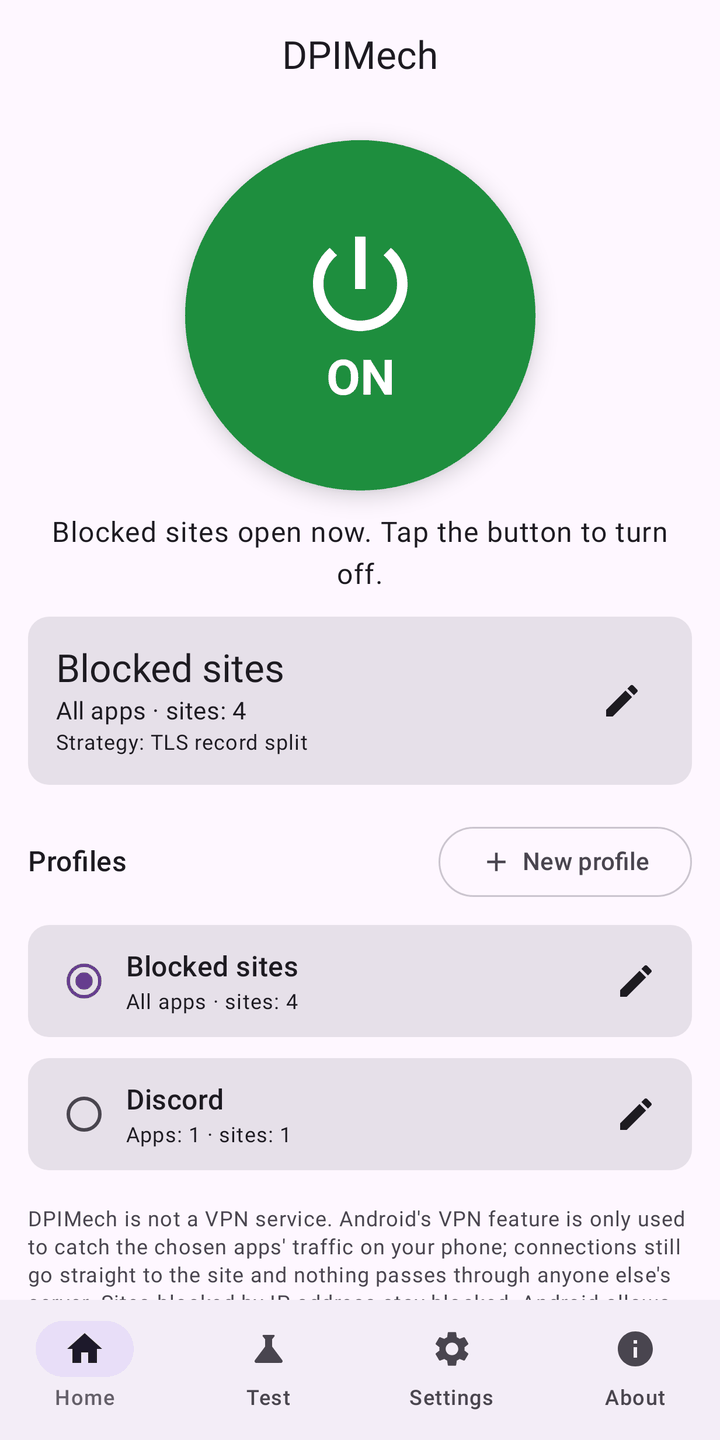
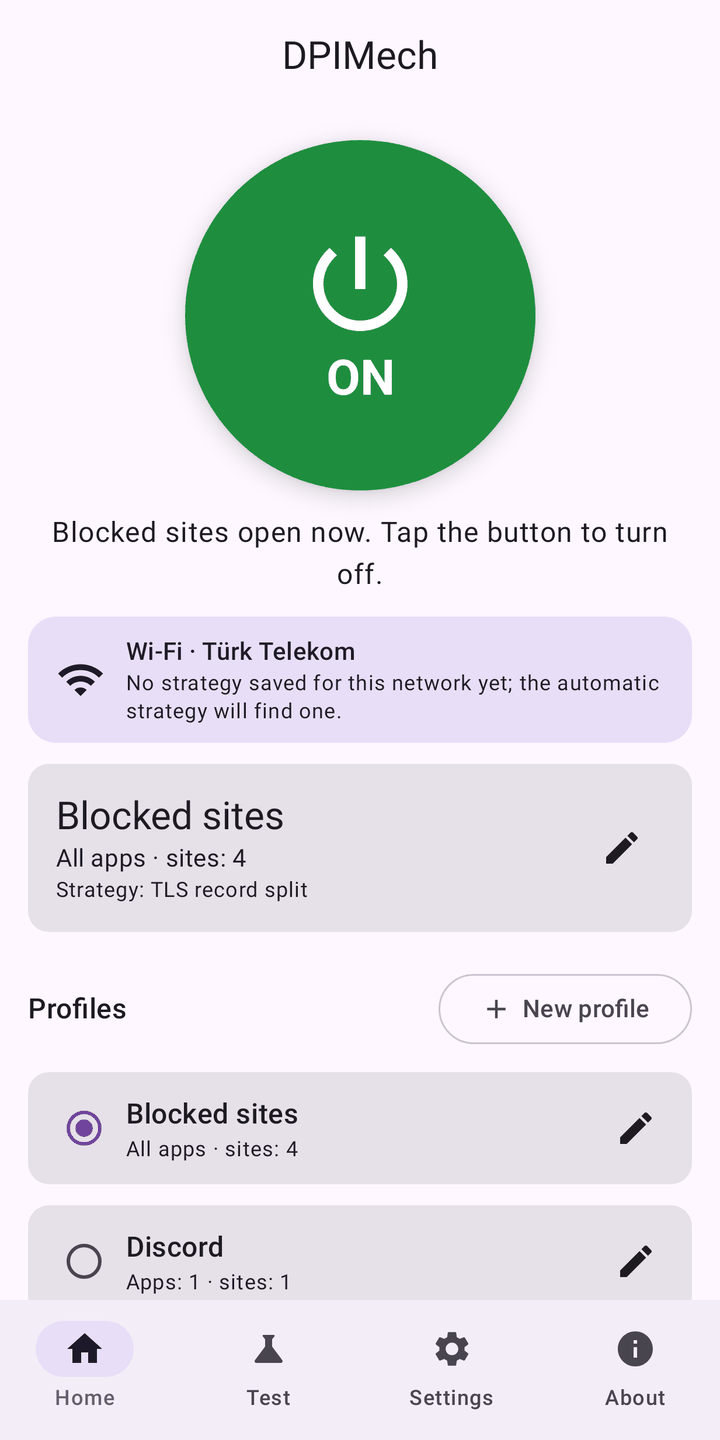
app: network line on home, list update progress, battery fix, country text
- Home shows the network under the power button (Wi-Fi / mobile data and
  provider) and the strategy remembered for it.
- Update strategy lists: a spinner while downloading and the last update
  time, in the app language.
- Battery optimisation did nothing: the REQUEST_IGNORE_BATTERY_OPTIMIZATIONS
  permission was missing. The item now shows the current state, falls
  back to Android's list and re-reads the state on return.
- Wizard: country from the network, then the SIM, then the phone; the
  Turkish text no longer adds a case suffix to the country name.
- Store screenshots updated.

Claude-Session: https://claude.ai/code/session_018BEd7aifviRiBqWG33i1Hs

diff --git a/app/src/main/kotlin/io/github/halilkhrmn/dpimech/ui/SettingsScreen.kt b/app/src/main/kotlin/io/github/halilkhrmn/dpimech/ui/SettingsScreen.kt
@@ -1,5 +1,6 @@
 package io.github.halilkhrmn.dpimech.ui
 
+import android.annotation.SuppressLint
 import android.content.Intent
 import android.os.Build
 import android.os.PowerManager
@@ -10,9 +11,11 @@ import androidx.compose.foundation.layout.PaddingValues
 import androidx.compose.foundation.layout.Row
 import androidx.compose.foundation.layout.fillMaxWidth
 import androidx.compose.foundation.layout.padding
+import androidx.compose.foundation.layout.size
 import androidx.compose.foundation.rememberScrollState
 import androidx.compose.foundation.verticalScroll
 import androidx.compose.material3.AlertDialog
+import androidx.compose.material3.CircularProgressIndicator
 import androidx.compose.material3.CenterAlignedTopAppBar
 import androidx.compose.material3.ExperimentalMaterial3Api
 import androidx.compose.material3.HorizontalDivider
@@ -33,10 +36,12 @@ import androidx.compose.runtime.rememberCoroutineScope
 import androidx.compose.runtime.setValue
 import androidx.compose.ui.Alignment
 import androidx.compose.ui.Modifier
+import androidx.compose.ui.platform.LocalConfiguration
 import androidx.compose.ui.platform.LocalContext
 import androidx.compose.ui.res.stringResource
 import androidx.compose.ui.unit.dp
 import androidx.core.net.toUri
+import androidx.lifecycle.compose.LifecycleResumeEffect
 import io.github.halilkhrmn.dpimech.R
 import io.github.halilkhrmn.dpimech.core.AppSettings
 import kotlinx.coroutines.launch
@@ -49,6 +54,7 @@ fun SettingsScreen(
     onChange: ((AppSettings) -> AppSettings) -> Unit,
     onWizard: () -> Unit,
     onRefreshStrategies: suspend () -> List<String>,
+    lastUpdated: Long?,
     onLogs: () -> Unit,
     onReport: () -> Unit,
     bottomPadding: PaddingValues,
@@ -57,6 +63,13 @@ fun SettingsScreen(
     var pickLanguage by remember { mutableStateOf(false) }
     var pickDns by remember { mutableStateOf(false) }
     val snackbar = remember { SnackbarHostState() }
+    var refreshing by remember { mutableStateOf(false) }
+    // Re-read when coming back from Android's battery screen.
+    var ignoringBattery by remember { mutableStateOf(isIgnoringBattery(context)) }
+    LifecycleResumeEffect(Unit) {
+        ignoringBattery = isIgnoringBattery(context)
+        onPauseOrDispose { }
+    }
     val scope = rememberCoroutineScope()
     val updated = stringResource(R.string.strategies_updated)
     val failed = stringResource(R.string.strategies_update_failed)
@@ -99,10 +112,19 @@ fun SettingsScreen(
             )
             ListItem(
                 headlineContent = { Text(stringResource(R.string.strategies_update)) },
-                supportingContent = { Text(stringResource(R.string.settings_update_hint)) },
-                modifier = Modifier.clickable {
+                supportingContent = {
+                    Text(
+                        stringResource(R.string.settings_update_hint) + "\n" +
+                            (lastUpdated?.let { stringResource(R.string.settings_last_update, formatTime(it, LocalConfiguration.current.locales[0])) }
+                                ?: stringResource(R.string.settings_never_updated)),
+                    )
+                },
+                trailingContent = { if (refreshing) CircularProgressIndicator(Modifier.size(24.dp), strokeWidth = 2.dp) },
+                modifier = Modifier.clickable(enabled = !refreshing) {
+                    refreshing = true
                     scope.launch {
                         val errors = onRefreshStrategies()
+                        refreshing = false
                         snackbar.showSnackbar(if (errors.isEmpty()) updated else failed + "\n" + errors.joinToString("\n"))
                     }
                 },
@@ -153,18 +175,28 @@ fun SettingsScreen(
                     runCatching { context.startActivity(Intent(Settings.ACTION_VPN_SETTINGS)) }
                 },
             )
-            val pm = context.getSystemService(PowerManager::class.java)
-            if (!pm.isIgnoringBatteryOptimizations(context.packageName)) {
-                ListItem(
-                    headlineContent = { Text(stringResource(R.string.settings_battery)) },
-                    supportingContent = { Text(stringResource(R.string.settings_battery_hint)) },
-                    modifier = Modifier.clickable {
-                        @Suppress("BatteryLife") // a VPN-style service the user turned on; the user confirms
-                        val intent = Intent(Settings.ACTION_REQUEST_IGNORE_BATTERY_OPTIMIZATIONS, "package:${context.packageName}".toUri())
-                        runCatching { context.startActivity(intent) }
-                    },
-                )
-            }
+            ListItem(
+                headlineContent = { Text(stringResource(R.string.settings_battery)) },
+                supportingContent = {
+                    Text(
+                        stringResource(R.string.settings_battery_hint) + "\n" +
+                            stringResource(if (ignoringBattery) R.string.settings_battery_ok else R.string.settings_battery_limited),
+                    )
+                },
+                modifier = Modifier.clickable {
+                    val intent = if (ignoringBattery) {
+                        Intent(Settings.ACTION_IGNORE_BATTERY_OPTIMIZATION_SETTINGS)
+                    } else {
+                        @SuppressLint("BatteryLife") // a VPN-style service the user turned on; the user confirms
+                        val ask = Intent(Settings.ACTION_REQUEST_IGNORE_BATTERY_OPTIMIZATIONS, "package:${context.packageName}".toUri())
+                        ask
+                    }
+                    // Some phones lack the direct dialog: fall back to the list of apps.
+                    runCatching { context.startActivity(intent) }.onFailure {
+                        runCatching { context.startActivity(Intent(Settings.ACTION_IGNORE_BATTERY_OPTIMIZATION_SETTINGS)) }
+                    }
+                },
+            )
         }
     }
 
@@ -187,6 +219,13 @@ fun SettingsScreen(
         )
     }
 }
+
+private fun isIgnoringBattery(context: android.content.Context) =
+    context.getSystemService(PowerManager::class.java).isIgnoringBatteryOptimizations(context.packageName)
+
+/** In the app's language, which may differ from the phone's. */
+private fun formatTime(ms: Long, locale: java.util.Locale): String =
+    java.text.DateFormat.getDateTimeInstance(java.text.DateFormat.MEDIUM, java.text.DateFormat.SHORT, locale).format(java.util.Date(ms))
 
 @Composable
 private fun Section(title: String) {

diff --git a/app/src/main/kotlin/io/github/halilkhrmn/dpimech/ui/MainActivity.kt b/app/src/main/kotlin/io/github/halilkhrmn/dpimech/ui/MainActivity.kt
@@ -85,6 +85,7 @@ class MainActivity : AppCompatActivity() {
                 var logs by rememberSaveable { mutableStateOf(false) }
                 var report by remember { mutableStateOf<ProblemReport?>(null) }
                 val logLines by EngineLog.flow.collectAsStateWithLifecycle()
+                val network by NetworkIdentity.flow.collectAsStateWithLifecycle()
                 val openReport = { report = buildReport() }
 
                 BackHandler(enabled = editing != null || logs || tab != Tab.HOME) {
@@ -100,7 +101,7 @@ class MainActivity : AppCompatActivity() {
                 when {
                     wizard -> WizardScreen(
                         lab = lab,
-                        country = lab.isp?.country,
+                        country = network?.country ?: lab.isp?.country ?: simCountry(),
                         onDetectIsp = app.lab::detectIsp,
                         onTest = { packs, community ->
                             app.lab.start(
@@ -113,7 +114,7 @@ class MainActivity : AppCompatActivity() {
                             app.settings.update { it.copy(wizardDone = true) }
                             wizard = false
                             tab = Tab.HOME
-                            val p = profileFromWizard(choice, lab.isp?.country, lab.isp?.networkKey)
+                            val p = profileFromWizard(choice, network?.country ?: lab.isp?.country, network?.networkKey ?: lab.isp?.networkKey)
                             app.profiles.save(p)
                             app.profiles.select(p.id)
                             when {
@@ -175,6 +176,8 @@ class MainActivity : AppCompatActivity() {
         val strategies by app.strategies.options.collectAsStateWithLifecycle()
         val lab by app.lab.flow.collectAsStateWithLifecycle()
         val settings by app.settings.settings.collectAsStateWithLifecycle()
+        val network by NetworkIdentity.flow.collectAsStateWithLifecycle()
+        val lastUpdated by app.strategies.lastUpdated.collectAsStateWithLifecycle()
         when (tab) {
             Tab.HOME -> HomeScreen(
                 saved = saved,
@@ -189,6 +192,8 @@ class MainActivity : AppCompatActivity() {
                 onNew = { onEdit("") },
                 onWizard = onWizard,
                 bottomPadding = padding,
+                network = network,
+                autoStrategy = settings.autoStrategy,
             )
             Tab.TEST -> LabScreen(
                 state = lab,
@@ -198,7 +203,7 @@ class MainActivity : AppCompatActivity() {
                 onDetectIsp = app.lab::detectIsp,
                 onStart = app.lab::start,
                 onCancel = app.lab::cancel,
-                onUse = { result, packs, start -> useLabResult(result, packs, start, lab.isp?.networkKey, onEdit) },
+                onUse = { result, packs, start -> useLabResult(result, packs, start, network?.networkKey ?: lab.isp?.networkKey, onEdit) },
                 onBack = null,
                 bottomPadding = padding,
             )
@@ -220,6 +225,7 @@ class MainActivity : AppCompatActivity() {
                 },
                 onWizard = onWizard,
                 onRefreshStrategies = { app.strategies.refresh() },
+                lastUpdated = lastUpdated,
                 onLogs = onLogs,
                 onReport = onReport,
                 bottomPadding = padding,
@@ -280,6 +286,11 @@ class MainActivity : AppCompatActivity() {
         return if (choice.best != null) base.withStrategy(entry, networkKey) else base
     }
 
+    /** The SIM's country when nothing better is known (no permission needed). */
+    private fun simCountry(): String? = runCatching {
+        getSystemService(android.telephony.TelephonyManager::class.java)?.simCountryIso?.uppercase()?.ifEmpty { null }
+    }.getOrNull()
+
     private fun versionName() = runCatching { packageManager.getPackageInfo(packageName, 0).versionName }.getOrNull().orEmpty()
 
     private fun buildReport(): ProblemReport {
@@ -296,7 +307,7 @@ class MainActivity : AppCompatActivity() {
             settings = app.settings.settings.value,
             profiles = app.profiles.saved.value,
             engineState = state,
-            isp = NetworkIdentity.flow.value ?: app.lab.flow.value.isp,
+            isp = NetworkIdentity.flow.value?.isp ?: app.lab.flow.value.isp,
             log = EngineLog.snapshot().takeLast(300),
         )
     }

diff --git a/app/src/main/kotlin/io/github/halilkhrmn/dpimech/ui/HomeScreen.kt b/app/src/main/kotlin/io/github/halilkhrmn/dpimech/ui/HomeScreen.kt
@@ -19,6 +19,10 @@ import androidx.compose.foundation.lazy.items
 import androidx.compose.foundation.shape.CircleShape
 import androidx.compose.material.icons.Icons
 import androidx.compose.material.icons.filled.Add
+import androidx.compose.material.icons.filled.CloudOff
+import androidx.compose.material.icons.filled.Lan
+import androidx.compose.material.icons.filled.SignalCellularAlt
+import androidx.compose.material.icons.filled.Wifi
 import androidx.compose.material.icons.filled.Edit
 import androidx.compose.material.icons.filled.PowerSettingsNew
 import androidx.compose.material3.Button
@@ -49,6 +53,8 @@ import androidx.compose.ui.text.style.TextAlign
 import androidx.compose.ui.unit.dp
 import io.github.halilkhrmn.dpimech.R
 import io.github.halilkhrmn.dpimech.core.AppMode
+import io.github.halilkhrmn.dpimech.core.NetworkInfo
+import io.github.halilkhrmn.dpimech.core.Transport
 import io.github.halilkhrmn.dpimech.core.Profile
 import io.github.halilkhrmn.dpimech.core.SavedProfiles
 import io.github.halilkhrmn.dpimech.engine.EngineState
@@ -64,6 +70,8 @@ fun HomeScreen(
     onNew: () -> Unit,
     onWizard: () -> Unit,
     bottomPadding: PaddingValues,
+    network: NetworkInfo? = null,
+    autoStrategy: Boolean = true,
 ) {
     Scaffold(topBar = { CenterAlignedTopAppBar(title = { Text(stringResource(R.string.app_name)) }) }) { padding ->
         LazyColumn(
@@ -77,6 +85,7 @@ fun HomeScreen(
             horizontalAlignment = Alignment.CenterHorizontally,
         ) {
             item { PowerButton(saved.selected, engine, onToggle, onWizard) }
+            item { NetworkLine(network, saved.selected, autoStrategy) }
             saved.selected?.let { p -> item { ActiveProfileCard(p, engine, onEdit = { onEdit(p.id) }) } }
             item {
                 Row(Modifier.fillMaxWidth().padding(top = 8.dp), verticalAlignment = Alignment.CenterVertically) {
@@ -172,6 +181,51 @@ private fun PowerButton(profile: Profile?, engine: EngineState, onToggle: (Profi
 }
 
 private val OnGreen = Color(0xFF1E8E3E)
+
+/**
+ * Which network the phone is on and what the profile remembers for it: the per-network strategy
+ * memory is keyed by the provider, so this is where the user sees it at work.
+ */
+@Composable
+private fun NetworkLine(network: NetworkInfo?, profile: Profile?, autoStrategy: Boolean) {
+    val kind = when (network?.transport) {
+        Transport.WIFI -> stringResource(R.string.net_wifi)
+        Transport.CELLULAR -> stringResource(R.string.net_mobile)
+        Transport.ETHERNET -> "Ethernet"
+        Transport.OTHER -> stringResource(R.string.net_other)
+        null -> stringResource(R.string.net_none)
+    }
+    val icon = when (network?.transport) {
+        Transport.WIFI -> Icons.Default.Wifi
+        Transport.CELLULAR -> Icons.Default.SignalCellularAlt
+        null -> Icons.Default.CloudOff
+        else -> Icons.Default.Lan
+    }
+    val key = network?.networkKey
+    val remembered = key?.let { profile?.perNetwork?.get(it) }
+    Surface(shape = MaterialTheme.shapes.large, color = MaterialTheme.colorScheme.secondaryContainer, modifier = Modifier.fillMaxWidth()) {
+        Row(Modifier.padding(horizontal = 16.dp, vertical = 10.dp), verticalAlignment = Alignment.CenterVertically) {
+            Icon(icon, null, Modifier.size(28.dp))
+            Column(Modifier.padding(start = 12.dp)) {
+                Text(
+                    listOfNotNull(kind, network?.providerName ?: if (network != null && key == null) stringResource(R.string.net_looking_up) else null)
+                        .joinToString(" · "),
+                    style = MaterialTheme.typography.titleSmall,
+                )
+                if (network != null && profile != null) {
+                    Text(
+                        when {
+                            remembered != null -> stringResource(R.string.net_remembered, remembered.name)
+                            autoStrategy -> stringResource(R.string.net_auto)
+                            else -> stringResource(R.string.net_default, profile.strategy.name)
+                        },
+                        style = MaterialTheme.typography.bodySmall,
+                    )
+                }
+            }
+        }
+    }
+}
 
 @Composable
 private fun ActiveProfileCard(p: Profile, engine: EngineState, onEdit: () -> Unit) {

diff --git a/app/src/test/kotlin/io/github/halilkhrmn/dpimech/ui/ScreenshotTest.kt b/app/src/test/kotlin/io/github/halilkhrmn/dpimech/ui/ScreenshotTest.kt
@@ -56,14 +56,27 @@ class ScreenshotTest {
     }
 
     @Test fun homeOff() = home(EngineState.Stopped)
-    @Test fun homeOn() = home(EngineState.Running("1", "Blocked sites", "TLS record split"))
+    @Test fun homeOn() = shot("home_Running") {
+        val tt = io.github.halilkhrmn.dpimech.core.IspInfo("Turk Telekom", 9121, "TR", io.github.halilkhrmn.dpimech.core.Isp.match(9121, ""))
+        HomeScreen(
+            saved.copy(profiles = listOf(whole.withStrategy(strategy, "AS9121"), discord)),
+            EngineState.Running("1", "Blocked sites", "TLS record split"), {}, {}, {}, {}, {}, PaddingValues(),
+            network = io.github.halilkhrmn.dpimech.core.NetworkInfo(io.github.halilkhrmn.dpimech.core.Transport.WIFI, isp = tt),
+        )
+    }
+    @Test fun homeMobile() = shot("home_mobile") {
+        HomeScreen(
+            saved, EngineState.Stopped, {}, {}, {}, {}, {}, PaddingValues(),
+            network = io.github.halilkhrmn.dpimech.core.NetworkInfo(io.github.halilkhrmn.dpimech.core.Transport.CELLULAR, "28601", "Turkcell"),
+        )
+    }
     @Test fun homeAutoTesting() = shot("home_auto") {
         HomeScreen(saved, EngineState.Running("1", "Blocked sites", "TLS record split", autoTesting = true), {}, {}, {}, {}, {}, PaddingValues())
     }
     @Test fun homeFailed() = home(EngineState.Failed("1", "ByeDPI did not start listening on port 1080"))
     @Test fun homeEmpty() = shot("home_empty") { HomeScreen(SavedProfiles(), EngineState.Stopped, {}, {}, {}, {}, {}, PaddingValues()) }
 
-    @Test fun settings() = shot("settings") { SettingsScreen(AppSettings(language = "tr"), {}, {}, {}, { emptyList() }, {}, {}, PaddingValues()) }
+    @Test fun settings() = shot("settings") { SettingsScreen(AppSettings(language = "tr"), {}, {}, {}, { emptyList() }, 1_790_000_000_000, {}, {}, PaddingValues()) }
 
     /** The octopus purple used when wallpaper colours are off (or before Android 12). */
     @Test fun homePurple() {

diff --git a/app/src/test/kotlin/io/github/halilkhrmn/dpimech/ui/StoreScreenshotTest.kt b/app/src/test/kotlin/io/github/halilkhrmn/dpimech/ui/StoreScreenshotTest.kt
@@ -85,7 +85,12 @@ class StoreScreenshotTest(private val locale: String) {
     }
 
     @Test fun home() = shot(1) {
-        WithBar(0) { p -> HomeScreen(profiles(), EngineState.Running("1", "", "TLS record split"), {}, {}, {}, {}, {}, p) }
+        WithBar(0) { p ->
+            HomeScreen(
+                profiles(), EngineState.Running("1", "", "TLS record split"), {}, {}, {}, {}, {}, p,
+                network = io.github.halilkhrmn.dpimech.core.NetworkInfo(io.github.halilkhrmn.dpimech.core.Transport.WIFI, isp = IspInfo("Turk Telekom", 9121, "TR", Isp.match(9121, ""))),
+            )
+        }
     }
 
     @Test fun wizard() = shot(2) {
@@ -107,7 +112,7 @@ class StoreScreenshotTest(private val locale: String) {
     }
 
     @Test fun settings() = shot(4) {
-        WithBar(2) { p -> SettingsScreen(AppSettings(language = locale), {}, {}, {}, { emptyList() }, {}, {}, p) }
+        WithBar(2) { p -> SettingsScreen(AppSettings(language = locale), {}, {}, {}, { emptyList() }, 1_790_000_000_000, {}, {}, p) }
     }
 
     @Test fun about() = shot(5) { WithBar(3) { p -> AboutScreen("0.1.0", {}, {}, p) } }

diff --git a/app/src/main/kotlin/io/github/halilkhrmn/dpimech/data/StrategyRepository.kt b/app/src/main/kotlin/io/github/halilkhrmn/dpimech/data/StrategyRepository.kt
@@ -26,6 +26,13 @@ class StrategyRepository(dir: File) {
     private val communityCache = File(dir, "community.txt")
     private val state = MutableStateFlow(load())
     val options: StateFlow<List<StrategyOption>> = state.asStateFlow()
+    private val updated = MutableStateFlow(lastDownload())
+
+    /** When the lists were last downloaded (epoch ms), or null if only the built-in copy is used. */
+    val lastUpdated: StateFlow<Long?> = updated.asStateFlow()
+
+    private fun lastDownload(): Long? =
+        listOf(standardCache, communityCache).filter { it.exists() }.maxOfOrNull { it.lastModified() }
 
     private fun load(): List<StrategyOption> {
         val standard = standardCache.takeIf { it.exists() }
@@ -52,6 +59,7 @@ class StrategyRepository(dir: File) {
             communityCache.writeText(text)
         }.onFailure { errors += "${OnlineSource.COMMUNITY.label}: ${it.message}" }
         state.value = load()
+        updated.value = lastDownload()
         errors
     }
 
